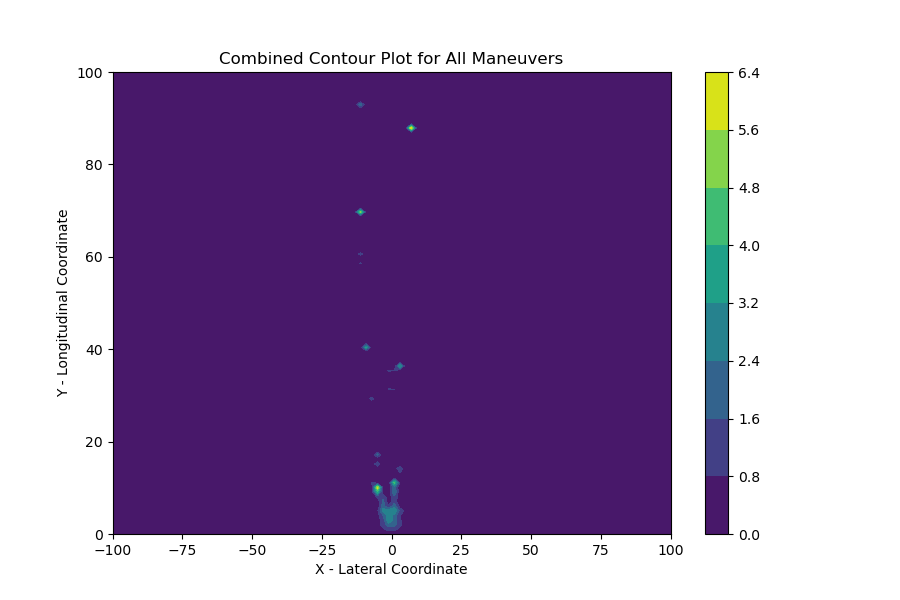
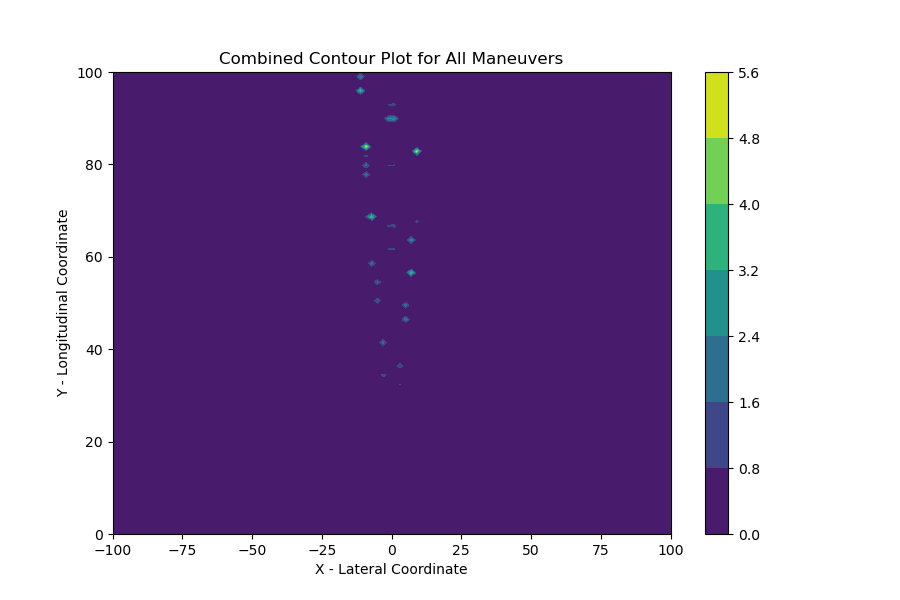
checking the data using plots

diff --git a/conv-social-pooling/codes/Louis_Trajectory_Prediction.py b/conv-social-pooling/codes/Louis_Trajectory_Prediction.py
@@ -242,12 +242,14 @@ def predict_trajectories(input_data, overpass_start_loc,overpass_end_loc, lane, 
         }
 
         current_data = possible_trajectories[possible_trajectories['ID'] == temp_ID] # extract the current trajectory data
-        current_data = current_data[current_data['time'] <= end_time] # make sure it is given within the boundaries 
+        current_data = current_data[(start_time <= current_data['time']) & (current_data['time'] <= end_time)] # make sure it is given within the boundaries 
         
         if len(current_data) != 0: # we don't want any empty trajectories 
             print(f'ID: {temp_ID}') # print out the ID just for checking
             trajectory_data = current_data # extract the current trajectory
-            print(trajectory_data)
+            # print(trajectory_data)
+            # print(trajectory_data['time']) # time 
+            print(trajectory_data['xloc'])
             
             # Plot original trajectory points before prediction
             axs[0].plot(trajectory_data['time'], trajectory_data['xloc'], label=f'Trajectory ID {temp_ID}')
@@ -267,6 +269,7 @@ def predict_trajectories(input_data, overpass_start_loc,overpass_end_loc, lane, 
             colors = ['red', 'green', 'blue', 'purple', 'orange','yellow']  
             for m in range(num_maneuvers):
                 muX, muY = fut_pred[m][:, batch_num, 0], fut_pred[m][:, batch_num, 1]
+                print(muX)
                 axs[0].scatter(stat_time_frame, muX, color=colors[m],label=f'Maneuver {m+1}', zorder=5)
                 axs[1].scatter(stat_time_frame, muY, color=colors[m],label=f'Maneuver {m+1}', zorder=5)
             
@@ -276,146 +279,146 @@ def predict_trajectories(input_data, overpass_start_loc,overpass_end_loc, lane, 
     return None, None # return all the trajectories traversed and the best trajectory 
 
 
-# def predict_trajectories(input_data, overpass_start_loc,overpass_end_loc, lane, fut_pred, batch_num,delta): # predict trajectory function 
-#     # NOTE: For now, I will ignore current_point and overpass_start variables
-#     num_maneuvers = len(fut_pred) # We have 6 different maneuvers 
-#     # print(num_maneuvers)
+def predict_trajectories(input_data, overpass_start_loc,overpass_end_loc, lane, fut_pred, batch_num,delta): # predict trajectory function 
+    # NOTE: For now, I will ignore current_point and overpass_start variables
+    num_maneuvers = len(fut_pred) # We have 6 different maneuvers 
+    # print(num_maneuvers)
 
-#     input_data = input_data[input_data['lane'] == lane].reset_index(drop=True) # we want to pick for that lane given (this has ALL the trajectories)
-#     possible_trajectories = input_data[input_data['xloc'] >= overpass_end_loc] # the possible set of trajectories can be pass the overpass location
-#     IDs_to_traverse = possible_trajectories['ID'].unique() # get all the unique IDs 
-#     # print(IDs_to_traverse)
+    input_data = input_data[input_data['lane'] == lane].reset_index(drop=True) # we want to pick for that lane given (this has ALL the trajectories)
+    possible_trajectories = input_data[input_data['xloc'] >= overpass_end_loc] # the possible set of trajectories can be pass the overpass location
+    IDs_to_traverse = possible_trajectories['ID'].unique() # get all the unique IDs 
+    # print(IDs_to_traverse)
 
-#     ######################### INITIALIZE DATA FOR ALL TRAJECTORIES AND THE BEST TRAJECTORY #################################
-#     trajectories = [] # final set of trajectories that we would have traversed 
-#     best_trajectory = {
-#         'lane':lane,
-#         'time':0,
-#         'xloc':[],
-#         'yloc':[],
-#         'maneuver':0,
-#         'muX':0,
-#         'muY':0,
-#         'sigX':0,
-#         'sigY':0,
-#         'line_integral_values': 0
-#     }
+    ######################### INITIALIZE DATA FOR ALL TRAJECTORIES AND THE BEST TRAJECTORY #################################
+    trajectories = [] # final set of trajectories that we would have traversed 
+    best_trajectory = {
+        'lane':lane,
+        'time':0,
+        'xloc':[],
+        'yloc':[],
+        'maneuver':0,
+        'muX':0,
+        'muY':0,
+        'sigX':0,
+        'sigY':0,
+        'line_integral_values': 0
+    }
 
-#     highest_integral_value = float('-inf') # assign a really large negative value 
-#     tol = 0.1 # set a tolerance value 
+    highest_integral_value = float('-inf') # assign a really large negative value 
+    tol = 0.1 # set a tolerance value 
     
-#     start_time_data = input_data[(abs(input_data['xloc'] - overpass_start_loc) <=tol) & (input_data['xloc'] >= overpass_start_loc)] # overpass start time 
-#     stat_time_frame = np.arange(0,delta, 0.1) # adjust the global time frame for the probabilistic parameters muX, muY, sigX, sigY  
+    start_time_data = input_data[(abs(input_data['xloc'] - overpass_start_loc) <=tol) & (input_data['xloc'] >= overpass_start_loc)] # overpass start time 
+    stat_time_frame = np.arange(0,delta, 0.1) # adjust the global time frame for the probabilistic parameters muX, muY, sigX, sigY  
     
-#     start_time = min(start_time_data['time']) # go where the overpass starts and get that specific time
-#     end_time = start_time + delta # we are going to check for 5 seconds from start time
-#     ###########################################################################################################################
+    start_time = min(start_time_data['time']) # go where the overpass starts and get that specific time
+    end_time = start_time + delta # we are going to check for 5 seconds from start time
+    ###########################################################################################################################
     
-#     for temp_ID in IDs_to_traverse: # for each trajectory ID 
-#         # Initialize storage for the current trajectory
-#         current_trajectory = {
-#             'ID':temp_ID,
-#             'lane':lane,
-#             'time':[],
-#             'xloc':[],
-#             'yloc':[],
-#             'maneuver':[],
-#             'muX':[],
-#             'muY':[],
-#             'sigX':[],
-#             'sigY':[],
-#             'line_integral_values': []
-#         }
+    for temp_ID in IDs_to_traverse: # for each trajectory ID 
+        # Initialize storage for the current trajectory
+        current_trajectory = {
+            'ID':temp_ID,
+            'lane':lane,
+            'time':[],
+            'xloc':[],
+            'yloc':[],
+            'maneuver':[],
+            'muX':[],
+            'muY':[],
+            'sigX':[],
+            'sigY':[],
+            'line_integral_values': []
+        }
 
-#         current_data = possible_trajectories[possible_trajectories['ID'] == temp_ID] # extract the current trajectory data
-#         current_data = current_data[current_data['time'] <= end_time] # make sure it is given within the boundaries 
+        current_data = possible_trajectories[possible_trajectories['ID'] == temp_ID] # extract the current trajectory data
+        current_data = current_data[(start_time <= current_data['time']) & (current_data['time'] <= end_time)] # make sure it is given within the boundaries  
         
-#         if len(current_data) != 0: # we don't want any empty trajectories 
-#             # print('current') 
-#             # print(current_data)
-#             # print('length of traj after overpass',len(current_data))
+        if len(current_data) != 0: # we don't want any empty trajectories 
+            # print('current') 
+            # print(current_data)
+            # print('length of traj after overpass',len(current_data))
 
-#             min_x = min(current_data['xloc'].values)
-#             min_y = min(current_data['yloc'].values)
-#             traj_time = [round(t-min(current_data['time'].values),1) for t in current_data['time']] # adjust the trajectory time frame 
-#             print('current time',traj_time)
+            min_x = min(current_data['xloc'].values)
+            min_y = min(current_data['yloc'].values)
+            traj_time = [round(t-min(current_data['time'].values),1) for t in current_data['time']] # adjust the trajectory time frame 
+            print('current time',traj_time)
 
-#             for i in range(len(current_data) - 1): # Loop through each segment in current_data
-#                 x1, y1 = current_data.iloc[i][['xloc', 'yloc']] # get the (x1,y1) coordinates
-#                 x2, y2 = current_data.iloc[i + 1][['xloc', 'yloc']] # get the (x2,y2) coordinates
+            for i in range(len(current_data) - 1): # Loop through each segment in current_data
+                x1, y1 = current_data.iloc[i][['xloc', 'yloc']] # get the (x1,y1) coordinates
+                x2, y2 = current_data.iloc[i + 1][['xloc', 'yloc']] # get the (x2,y2) coordinates
 
-#                 x1 -= min_x # Adjust the x1 position for the line integral calculation 
-#                 y1 -= min_y # Adjust the x2 position for the line integral calculation 
-#                 x2 -= min_x # Adjust the y1 position for the line integral calculation 
-#                 y2 -= min_y # Adjust the y2 position for the line integral calculation 
+                x1 -= min_x # Adjust the x1 position for the line integral calculation 
+                y1 -= min_y # Adjust the x2 position for the line integral calculation 
+                x2 -= min_x # Adjust the y1 position for the line integral calculation 
+                y2 -= min_y # Adjust the y2 position for the line integral calculation 
 
-#                 print(f'first: {(x1,y1)}') # Just for checking 
-#                 print(f'second: {(x2,y2)}') # Just for checking 
+                print(f'first: {(x1,y1)}') # Just for checking 
+                print(f'second: {(x2,y2)}') # Just for checking 
 
-#                 for m in range(num_maneuvers): # Loop through each maneuver
-#                     # print('check ID',temp_ID)
-#                     muX, muY, sigX, sigY = fut_pred[m][:, batch_num, :4].T # Extract maneuver-specific predictive parameters
-#                     pred_prob = {
-#                         stat_time_frame[i]: {
-#                             'muX': muX[i],
-#                             'muY': muY[i],
-#                             'sigX': sigX[i],
-#                             'sigY': sigY[i]
-#                         } for i in range(len(stat_time_frame))
-#                     }
+                for m in range(num_maneuvers): # Loop through each maneuver
+                    # print('check ID',temp_ID)
+                    muX, muY, sigX, sigY = fut_pred[m][:, batch_num, :4].T # Extract maneuver-specific predictive parameters
+                    pred_prob = {
+                        stat_time_frame[i]: {
+                            'muX': muX[i],
+                            'muY': muY[i],
+                            'sigX': sigX[i],
+                            'sigY': sigY[i]
+                        } for i in range(len(stat_time_frame))
+                    }
 
-#                     print('time traj',traj_time[i])
+                    print('time traj',traj_time[i])
 
-#                     if traj_time[i] in stat_time_frame: # if the specific trajectory time frame is in the prediction time frame
-#                         # x1,x2 = 0, 20 # temp values
-#                         # y1,y2 = 0, 20 # temp values
-#                         print('stat and time traj',traj_time[i])
-#                         temp_time = traj_time[i] # get the time for that time frame 
-#                         temp_muX = pred_prob[traj_time[i]]['muX'] # store the muX
-#                         temp_muY = pred_prob[traj_time[i]]['muY'] # store the muY
-#                         temp_sigX = pred_prob[traj_time[i]]['sigX'] # store the sigX
-#                         temp_sigY = pred_prob[traj_time[i]]['sigY'] # store the sigY
-#                         # print('temp muX',temp_muX)
-#                         # print('temp muY',temp_muY)
-#                         # print('temp sigX',temp_sigX)
-#                         # print('temp sigY',temp_sigY)
+                    if traj_time[i] in stat_time_frame: # if the specific trajectory time frame is in the prediction time frame
+                        # x1,x2 = 0, 20 # temp values
+                        # y1,y2 = 0, 20 # temp values
+                        print('stat and time traj',traj_time[i])
+                        temp_time = traj_time[i] # get the time for that time frame 
+                        temp_muX = pred_prob[traj_time[i]]['muX'] # store the muX
+                        temp_muY = pred_prob[traj_time[i]]['muY'] # store the muY
+                        temp_sigX = pred_prob[traj_time[i]]['sigX'] # store the sigX
+                        temp_sigY = pred_prob[traj_time[i]]['sigY'] # store the sigY
+                        # print('temp muX',temp_muX)
+                        # print('temp muY',temp_muY)
+                        # print('temp sigX',temp_sigX)
+                        # print('temp sigY',temp_sigY)
                     
-#                         segment_integral = line_integral(x1, y1, x2, y2, temp_muX,temp_muY,temp_sigX,temp_sigY) # Calculate line integral for each segment (return 50 values)
+                        segment_integral = line_integral(x1, y1, x2, y2, temp_muX,temp_muY,temp_sigX,temp_sigY) # Calculate line integral for each segment (return 50 values)
             
-#                         current_trajectory['time'].append(traj_time[i]) # this is the individual time stamps 
-#                         current_trajectory['xloc'].append((x1,x2)) # this is the individual (x1,x2)
-#                         current_trajectory['yloc'].append((y1,y2)) # this is the individual (y1,y2)
-#                         current_trajectory['muX'].append(temp_muX) # this is the individual muX
-#                         current_trajectory['muY'].append(temp_muY) # this is the individual muY
-#                         current_trajectory['sigX'].append(temp_sigX) # this is the individual sigX
-#                         current_trajectory['sigY'].append(temp_sigY) # this is the individual sigY 
-#                         current_trajectory['line_integral_values'].append(segment_integral) # append the line integral
-#                         current_trajectory['maneuver'].append(m+1) # append the maneuver
+                        current_trajectory['time'].append(traj_time[i]) # this is the individual time stamps 
+                        current_trajectory['xloc'].append((x1,x2)) # this is the individual (x1,x2)
+                        current_trajectory['yloc'].append((y1,y2)) # this is the individual (y1,y2)
+                        current_trajectory['muX'].append(temp_muX) # this is the individual muX
+                        current_trajectory['muY'].append(temp_muY) # this is the individual muY
+                        current_trajectory['sigX'].append(temp_sigX) # this is the individual sigX
+                        current_trajectory['sigY'].append(temp_sigY) # this is the individual sigY 
+                        current_trajectory['line_integral_values'].append(segment_integral) # append the line integral
+                        current_trajectory['maneuver'].append(m+1) # append the maneuver
                         
-#                         if segment_integral > highest_integral_value: # check if the selected line integral value is greater than or not
-#                             highest_integral_value = segment_integral # assign the highest line integral value
+                        if segment_integral > highest_integral_value: # check if the selected line integral value is greater than or not
+                            highest_integral_value = segment_integral # assign the highest line integral value
                              
-#                             best_trajectory['time'] = traj_time[i] # assign the time
-#                             best_trajectory['xloc'] = (x1,x2) # this is the individual (x1,x2)
-#                             best_trajectory['yloc'] = (y1,y2) # this is the individual (y1,y2)
-#                             best_trajectory['muX'] = temp_muX # this is the individual muX
-#                             best_trajectory['muY'] = temp_muY # this is the individual muY
-#                             best_trajectory['sigX'] = temp_sigX # this is the individual sigX
-#                             best_trajectory['sigY'] = temp_sigY # this is the individual sigY 
-#                             best_trajectory['line_integral_values'] = segment_integral # append the line integral
-#                             best_trajectory['maneuver']= m+1 # assign the maneuver
+                            best_trajectory['time'] = traj_time[i] # assign the time
+                            best_trajectory['xloc'] = (x1,x2) # this is the individual (x1,x2)
+                            best_trajectory['yloc'] = (y1,y2) # this is the individual (y1,y2)
+                            best_trajectory['muX'] = temp_muX # this is the individual muX
+                            best_trajectory['muY'] = temp_muY # this is the individual muY
+                            best_trajectory['sigX'] = temp_sigX # this is the individual sigX
+                            best_trajectory['sigY'] = temp_sigY # this is the individual sigY 
+                            best_trajectory['line_integral_values'] = segment_integral # append the line integral
+                            best_trajectory['maneuver']= m+1 # assign the maneuver
 
-#                         trajectories.append(current_trajectory) # Store the current trajectory
+                        trajectories.append(current_trajectory) # Store the current trajectory
     
-#     for key,temp in enumerate(trajectories): # for each stored dataframe
-#         trajectories_df = pd.DataFrame(temp) # convert to DataFrame
-#         trajectories_df.to_csv('all_combinations_trajectories/batch_'+str(batch_num)+'_trajectory_combo.csv', index=False) # Save to CSV
+    for key,temp in enumerate(trajectories): # for each stored dataframe
+        trajectories_df = pd.DataFrame(temp) # convert to DataFrame
+        trajectories_df.to_csv('all_combinations_trajectories/batch_'+str(batch_num)+'_trajectory_combo.csv', index=False) # Save to CSV
     
-#     if best_trajectory: # if we have the best trajectory
-#         best_trajectory_df = pd.DataFrame(best_trajectory) # convert the best trajectory data into dataframe format 
-#         best_trajectory_df.to_csv('best_trajectories/batch_'+str(batch_num)+'_best_trajectory.csv', index=False) # then convert to csv
+    if best_trajectory: # if we have the best trajectory
+        best_trajectory_df = pd.DataFrame(best_trajectory) # convert the best trajectory data into dataframe format 
+        best_trajectory_df.to_csv('best_trajectories/batch_'+str(batch_num)+'_best_trajectory.csv', index=False) # then convert to csv
     
-#     return trajectories, best_trajectory # return all the trajectories traversed and the best trajectory 
+    return trajectories, best_trajectory # return all the trajectories traversed and the best trajectory 
 
 def plot_trajectory(lane, smoothed_file, modified_data): # Function to plot the trajectories 
     print(type(smoothed_file), type(modified_data))
